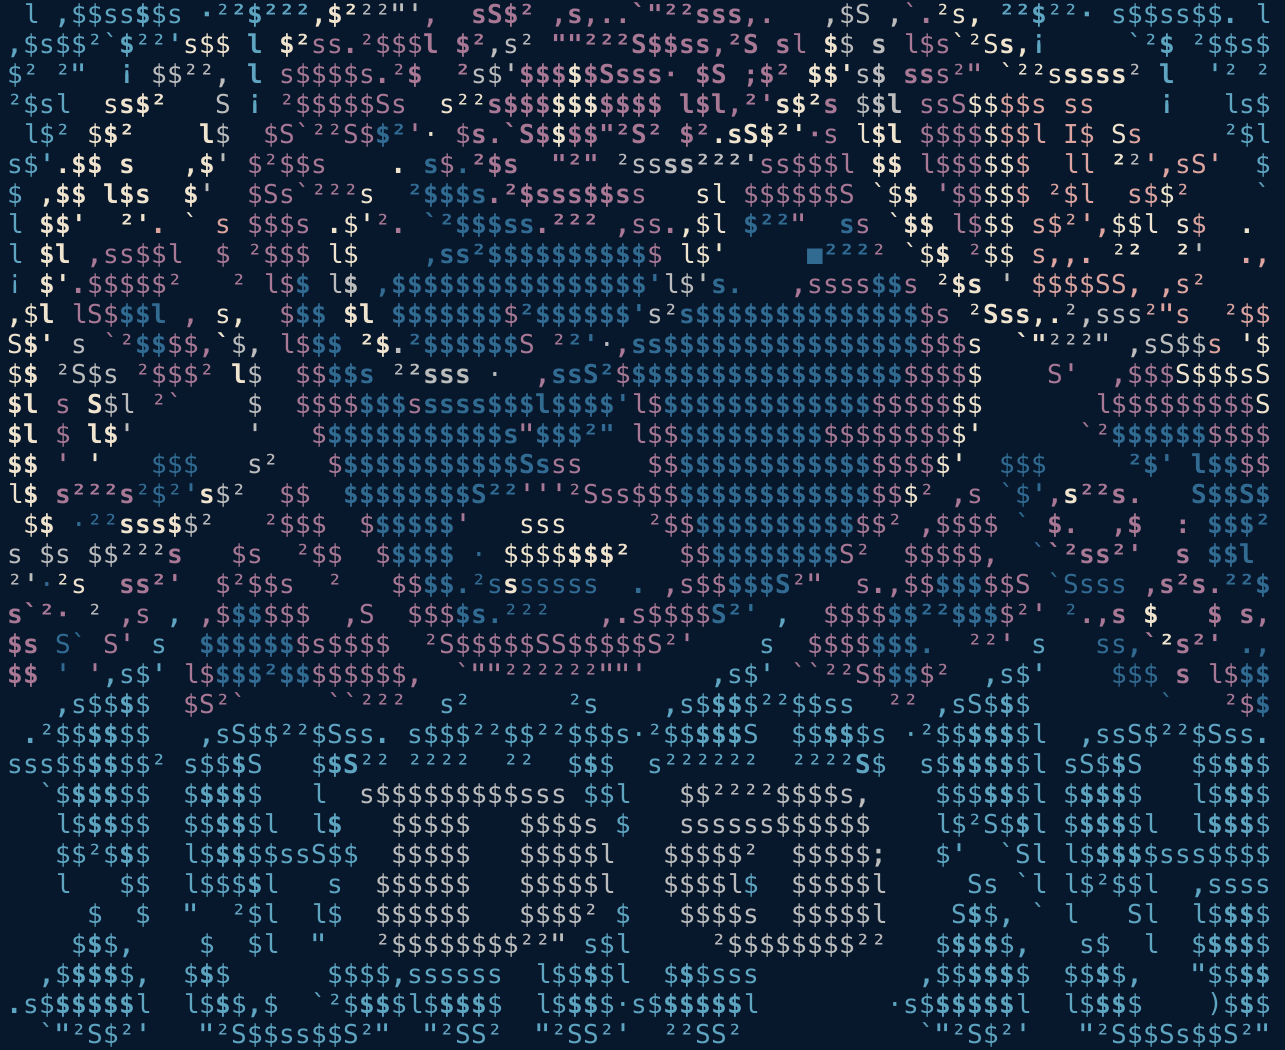
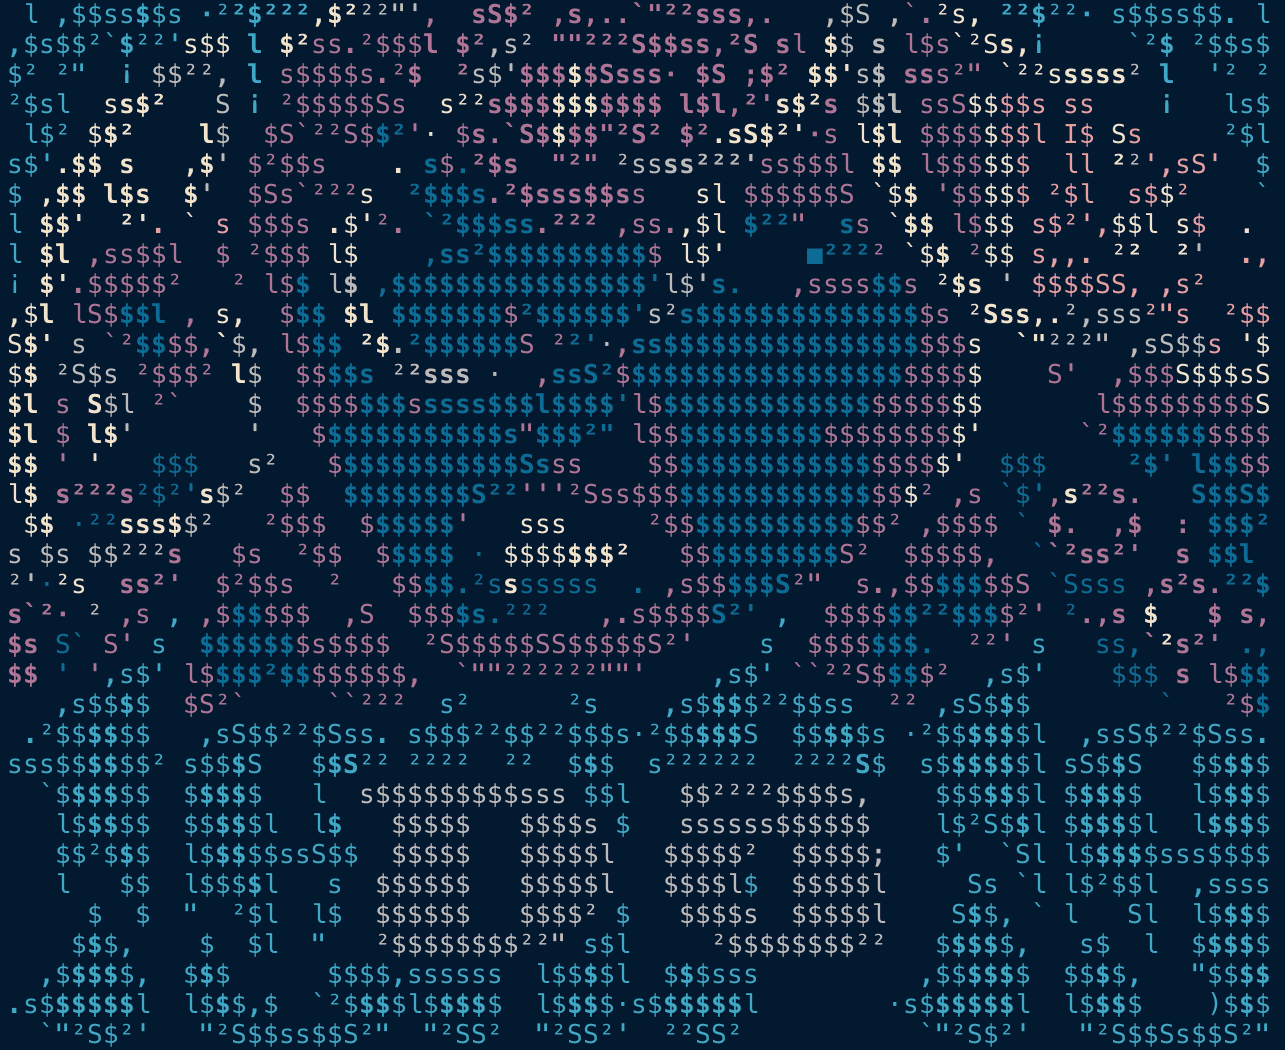
small tweaks and image optimizations

diff --git a/docs/index.md b/docs/index.md
@@ -59,7 +59,7 @@ export default {
       y: true
     }
 
-    var cancelScroll = VueScrollTo.scrollTo(element, 1000, options);
+    var cancelScroll = VueScrollTo.scrollTo(element, 1200, options);
   }
 }
 </script>
